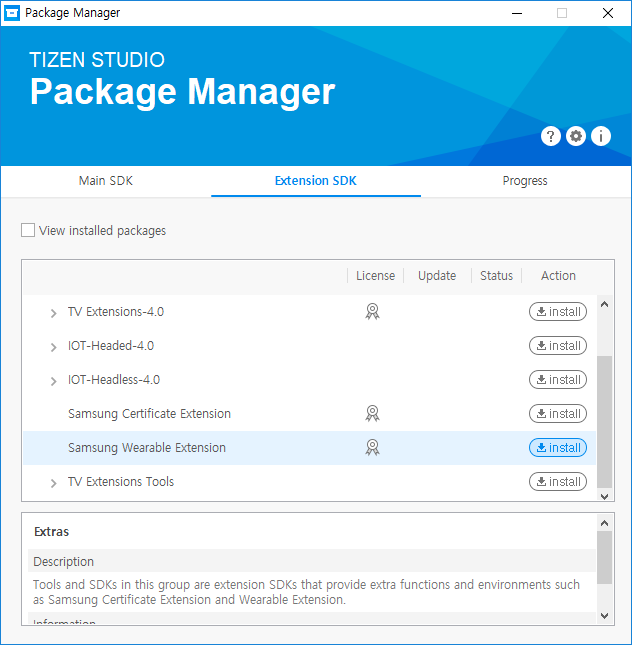
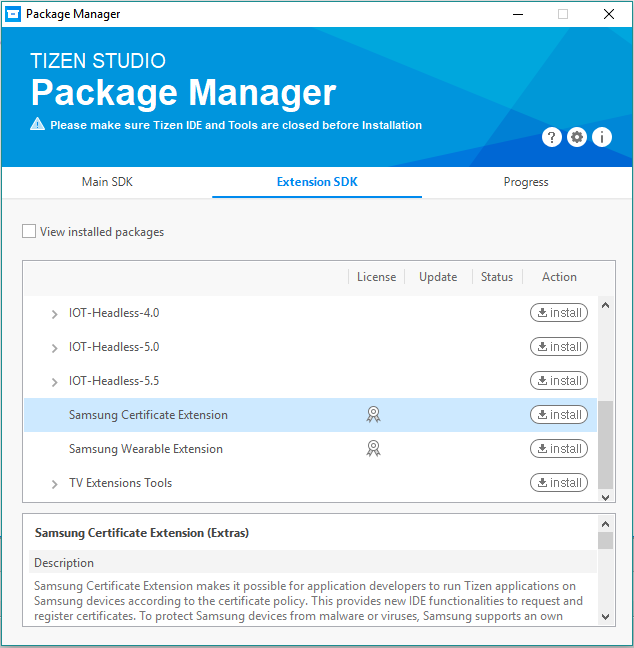
Updating Getting certificate files

diff --git a/docs/application/dotnet/tutorials/certificates/getting-the-certificates.md b/docs/application/dotnet/tutorials/certificates/getting-the-certificates.md
@@ -1,16 +1,12 @@
 # Getting the Certificates
 
-In order to install a Tizen application onto Samsung Tizen wearable devices, you must first register certificates containing the DUID (Device Unique Identifier) of the device.
-Two types of certificates are needed; the author and the distributor certificate.
-These certificates are used for signing and verifying the application.
+In order to install Tizen applications on Samsung Tizen wearable devices, you must first register certificates containing the Device Unique Identifier (DUID) of a device. There are two types of certificates, author certificate and distributor certificate. These certificates are used for signing and verifying the application.
 
-These certificates ensure that your signed application will run only on devices which you registered.
-The certification process is necessary not only for testing your apps on the actual devices but also for uploading your apps to Galaxy Apps.
+These certificates ensure that your signed application runs only on those devices that are registered by you. 
+The certification process is necessary not only for testing your apps on the actual devices but also for uploading them to Galaxy Store. 
 
-It guarantees that your application will not be distributed by someone else even if your application package is leaked.
-This document describes how to generate certificates from Samsung and how to maintain them also packaging the application.
-
-Contents:
+The certification process guarantees that your application will not be distributed by someone else even if your application package is leaked.
+The following pages describe how to generate certificates, how to maintain them, and how to package your application:
 
 - [Installing Certificates Extension](installing-certificate-extension.md)
 - [Creating Certificates](creating-certificates.md)
@@ -19,17 +15,19 @@ Contents:
 
 ## Certificates
 
-Tizen certificate follows the exact specifications of [XML Digital signature for widgets](http://www.w3.org/TR/widgets-digsig/) from W3C.
+Tizen certificate follows the exact specifications of [XML Digital Signature for widgets](http://www.w3.org/TR/widgets-digsig/) from W3C.
 Samsung issues certificates for Samsung Tizen devices based on the Tizen certificate.
-The author certificate identifies the author, ensures future updates to the application and is used for secure IPC.
-The same key must be used in all versions of your application so it should be kept in a safe and secure place.
-The distributor certificate identifies distributor, i.e. Galaxy Apps, Tizen Store, and grants privilege.
-However the issued distributor certificate is not from the real distributor but just allows the installation to the registered device.
-After the application is uploaded to the Stores, it is replaced by the official distributor certificate.
+The author certificate identifies the author, ensures future updates to the application, and is used for secure IPC.
+The same key must be used in all versions of your application, therefore, it should be kept in a safe and secure place.
+The distributor certificate identifies the distributors such as Galaxy Store, Tizen Store, and so on, and grants privilege.
+However, the issued distributor certificate is not from the real distributor but allows the installation to the registered device.
+After the application is uploaded to the respective store, it is replaced by the official distributor certificate.
 
 ## Secure Your Certificates
 
-Keep your author certificate(author.p12) file in a safe and secure place.
+Keep your author certificate (author.p12) file in a safe and secure place.
 Ensure that you have secure backups.
-When you upload your applications at the Store without the original author certificate (which signs your app), you will not be able to publish any updates on to your applications.
-The same key must be used in all versions of your applications.
+
+> [!NOTE]
+> If you upload your applications to the respective stores without the original author certificate that signs your app, you will not be able to publish any updates on your applications.
+

diff --git a/docs/application/dotnet/tutorials/certificates/permit-device-to-install-apps.md b/docs/application/dotnet/tutorials/certificates/permit-device-to-install-apps.md
@@ -1,15 +1,16 @@
 # Permit Device To Install Applications
 
-In the menu bar, click **Tools** > **Tizen** > **Tizen Device Manager**.
+To permit a device to install applications, follow these steps:
 
-Right-click anywhere in the file explorer of the **Device Manager** and select **Permit to install applications**.
+1. In the Visual Studio menu, select **Tools** > **Tizen** > **Tizen Device Manager**.
+2. In the **Device Manager** window that appears, select the device and right-click. 
+3. Select **Permit to install applications** from the options.
 
-![Device Manager](media/DeviceManager.png)
+    ![Device Manager](media/DeviceManager.png)
 
 ## Troubleshooting
 
-If failed to install application to device, follow the instructions:
-- Verify the device date and time.
-
-   If the certificate issued is before the device date and time, the application cannot be installed, as the certificate is considered invalid.
-- Verify whether the permit to install applications process is performed correctly.
+If you fail to install an application on a device, follow these instructions:
+- Verify the device date and time: If the certificate issued date is before the device date and time, the application cannot be installed as the certificate is considered invalid.
+   
+- Verify whether the **Permit to install applications** process is performed correctly.

diff --git a/docs/application/dotnet/tutorials/certificates/installing-certificate-extension.md b/docs/application/dotnet/tutorials/certificates/installing-certificate-extension.md
@@ -3,9 +3,14 @@
 Samsung Certificate Extension provides functionalities to get and register certificates for Samsung commercial devices.  
 It is an add-on SDK, which is installed using the Tizen Studio Package Manager.
 
-Click **Tools** > **Tizen** > **Tizen Package Manager** in the menu bar to launch the Package Manager.
+To install Samsung Certificate Extension, follow these steps:
+  
+1. In the Visual Studio menu, select **Tools** > **Tizen** > **Tizen Package Manager**.
+2. In the **Tizen Package Manager** window that appears, select **Extension SDK**.
+    
+	The list of available extensions appears. 
+3. Select **Samsung Certificate Extension** from the list and click **Install**.
+	
+	You can also see that the extension details are described in the **Samsung Certificate Extension (Extras)** panel.
 
-In the Extension SDK tab you can find the list of available extensions.  
-The version of the extension is described in the lower window.
-
-![Package Manager](media/certification_guide2.png)
+    ![Package Manager](media/certification_guide2.png)
